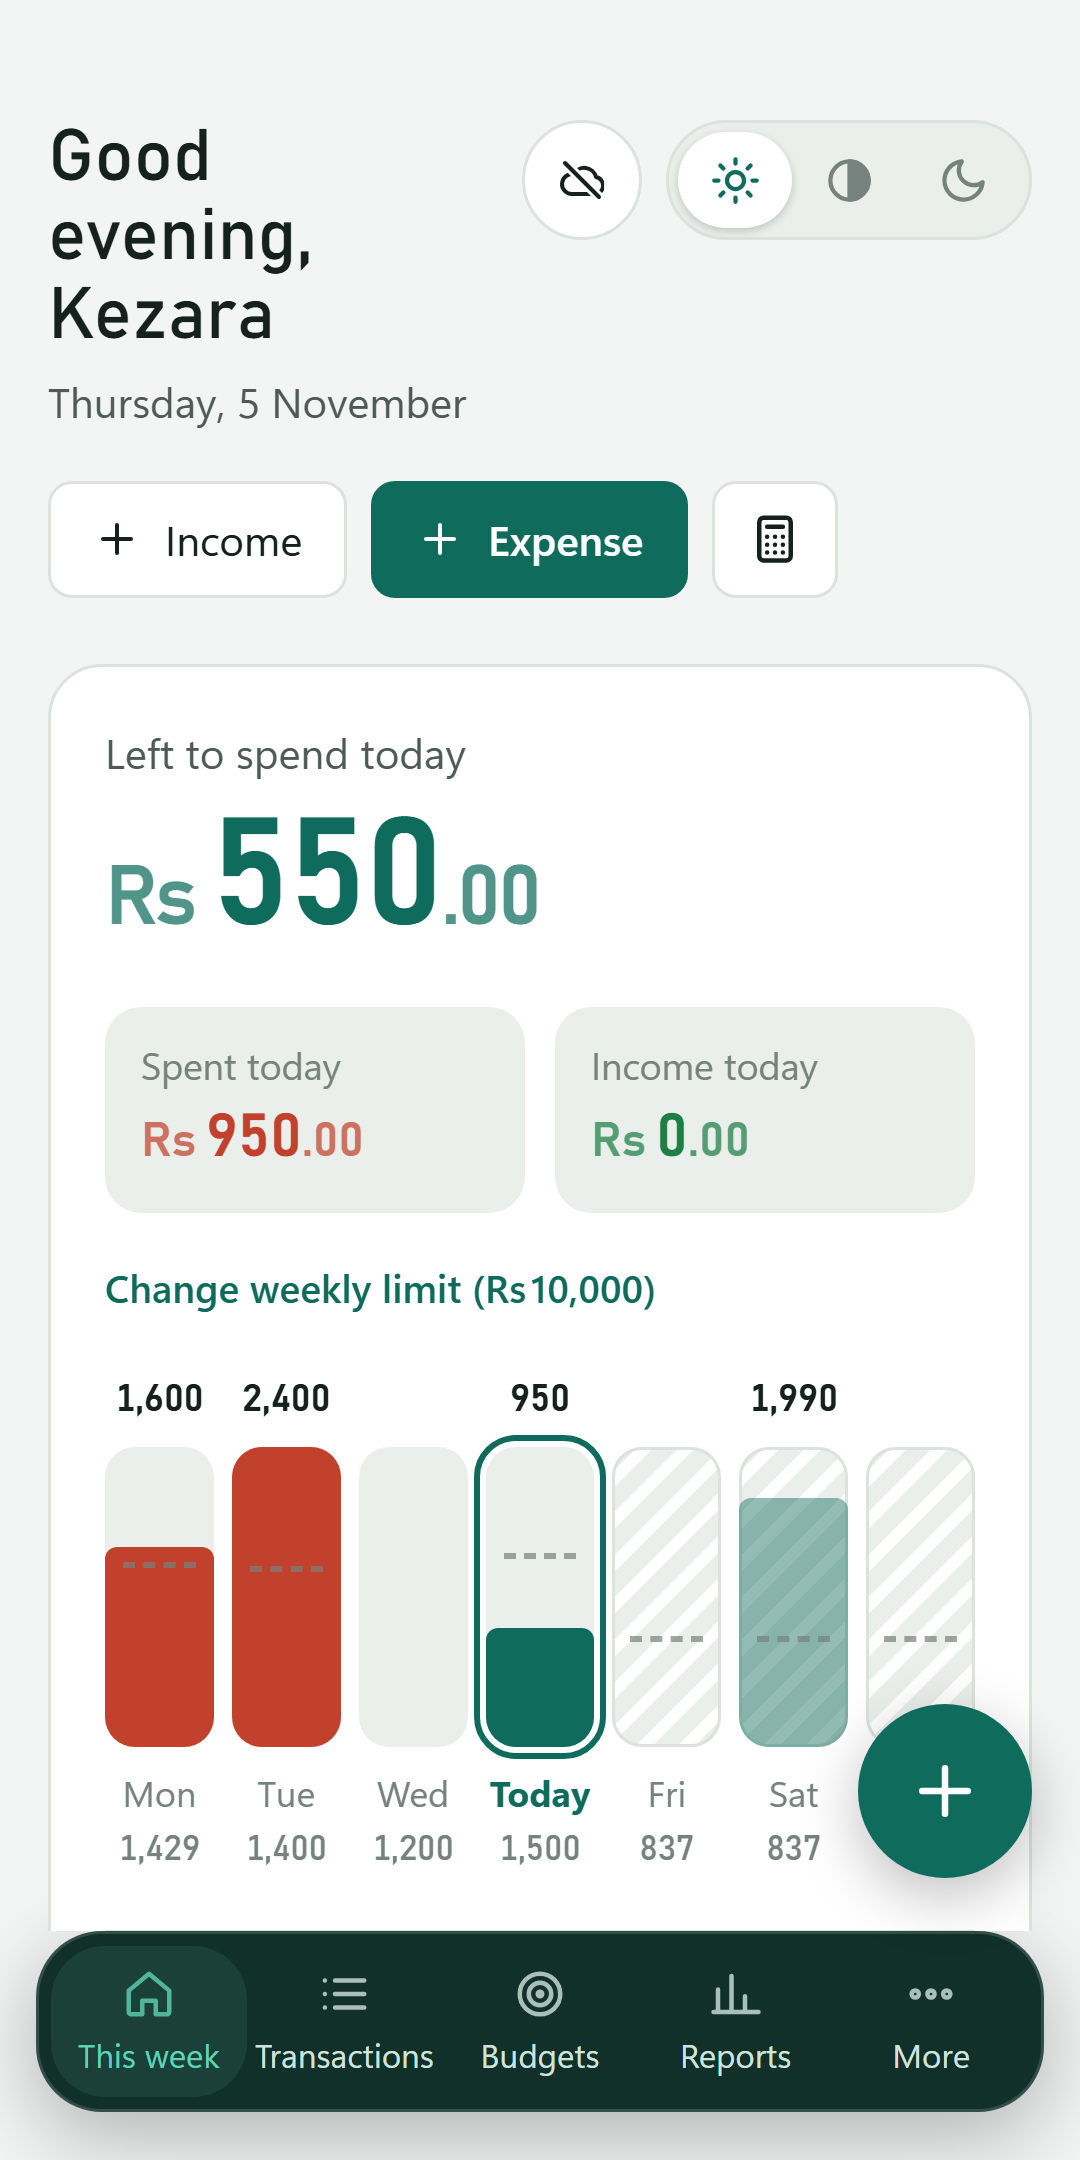
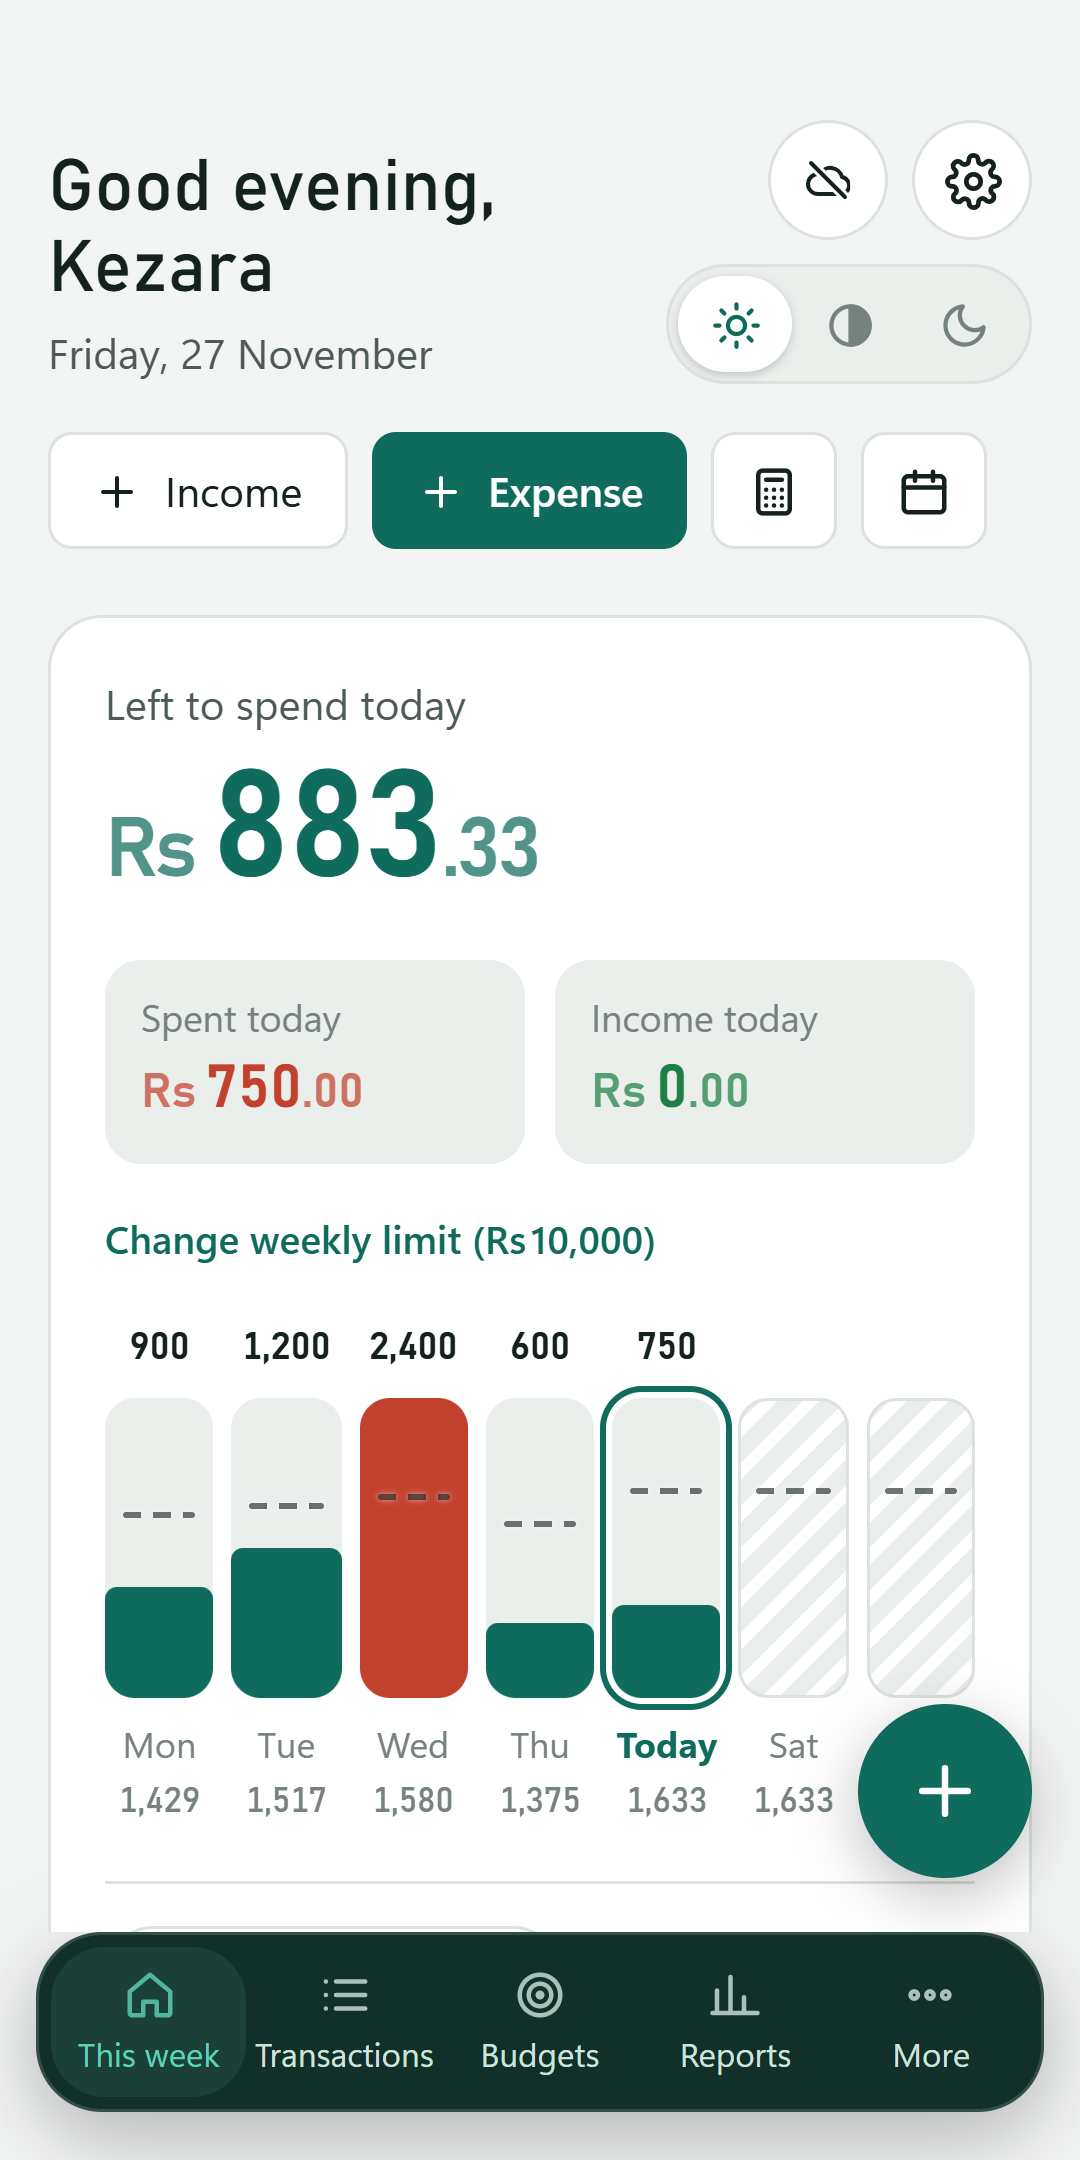
1.9.8: steady add form, deep blue card, new store screenshots and screenshot script, shorter Feedback section

diff --git a/web/styles.css b/web/styles.css
@@ -1224,7 +1224,8 @@ input.switch:disabled { opacity: .5; cursor: default; }
 .round-btn svg { width: 20px; height: 20px; }
 
 /* The dark card: Home "You can spend today", Spending "You spent" */
-.hero { display: grid; gap: 4px; padding: 22px 22px 18px; border-radius: 28px; background: linear-gradient(135deg, #34347a 0%, #6a4aa0 52%, #c0607e 100%); color: #ffffff; box-shadow: 0 14px 30px rgba(74, 52, 140, .28); }
+/* Home: deep blue. Spending (.page > .hero, below): teal to violet */
+.hero { display: grid; gap: 4px; padding: 22px 22px 18px; border-radius: 28px; background: linear-gradient(135deg, #12245e 0%, #1f3f9a 55%, #3f62d4 100%); color: #ffffff; box-shadow: 0 14px 30px rgba(31, 63, 154, .3); }
 .page > .hero { background: linear-gradient(135deg, #1d5d73 0%, #3d4b9a 55%, #7a4a9e 100%); box-shadow: 0 14px 30px rgba(45, 75, 140, .26); } /* Spending: its own colours */
 .hero-k { font-size: 15px; font-weight: 600; color: rgba(255, 255, 255, .78); }
 .hero-v { font-family: var(--num); font-size: 50px; font-weight: 600; line-height: 1.05; letter-spacing: -.01em; --minor: .5em; }
@@ -1261,17 +1262,19 @@ input.switch:disabled { opacity: .5; cursor: default; }
   text-align: center; font-family: var(--num); font-size: 40px; font-weight: 600; height: auto; padding: 6px 44px;
   border: 0; border-bottom: 2px solid var(--line); border-radius: 0; background: transparent; box-shadow: none;
 }
+/* The add form keeps the same height when switching Expense / Income / Transfer, so it doesn't jump up and down */
+[data-style="aesthetic"] .modal:has(#typeSeg) { min-height: min(760px, calc(100vh - 40px)); }
 [data-style="aesthetic"] #fCats { display: grid; grid-template-columns: repeat(4, minmax(0, 1fr)); gap: 14px 6px; }
 [data-style="aesthetic"] #fCats .chip {
   flex-direction: column; justify-content: flex-start; gap: 6px; padding: 0; border: 0; border-radius: 0; background: none;
-  font-size: 12px; line-height: 1.2; text-align: center; white-space: normal;
+  font-size: 12px; line-height: 1.2; text-align: center; white-space: normal; min-height: 89px; /* icon + two lines, so rows never change height */
 }
 [data-style="aesthetic"] #fCats .chip .dot {
   width: 54px; height: 54px; flex: none; border-radius: 50%; display: grid; place-items: center;
   background: color-mix(in srgb, var(--c) 16%, var(--surface)) !important; color: var(--c); box-shadow: inset 0 0 0 3px transparent;
 }
 [data-style="aesthetic"] #fCats .chip .dot .cat-ic { display: block; width: 22px; height: 22px; }
-[data-style="aesthetic"] #fCats .chip.on { background: none; font-weight: 700; }
+[data-style="aesthetic"] #fCats .chip.on { background: none; color: var(--ink); } /* not bold: a wider name could take a new line and make the form jump */
 [data-style="aesthetic"] #fCats .chip.on .dot { box-shadow: inset 0 0 0 3px var(--ink); }
 
 /* Spending: period pills and the "You kept" card */
@@ -1387,7 +1390,7 @@ input.switch:disabled { opacity: .5; cursor: default; }
   [data-style="aesthetic"] .nav button { color: var(--muted); border-radius: 999px; }
   [data-style="aesthetic"] .nav button.on { background: none; color: var(--ink); }
   [data-style="aesthetic"] .nav button.on span { display: none; } /* the dark circle says "you are here" */
-  [data-style="aesthetic"] .nav button.on svg { width: 22px; height: 22px; padding: 13px; margin: -6px 0; box-sizing: content-box; border-radius: 50%; background: linear-gradient(135deg, #34347a 0%, #6a4aa0 52%, #c0607e 100%); color: #ffffff; }
+  [data-style="aesthetic"] .nav button.on svg { width: 22px; height: 22px; padding: 13px; margin: -6px 0; box-sizing: content-box; border-radius: 50%; background: linear-gradient(135deg, #12245e 0%, #1f3f9a 55%, #3f62d4 100%); color: #ffffff; }
   [data-style="aesthetic"] .nav-add {
     display: grid; place-items: center; flex: 0 0 52px; width: 52px; height: 52px; align-self: center; margin: 0 2px;
     border: 0; border-radius: 50%; background: var(--accent-soft); color: var(--ink); cursor: pointer;
@@ -1410,6 +1413,7 @@ input.switch:disabled { opacity: .5; cursor: default; }
   [data-style="aesthetic"] .fab-item.calc .fab-ic { --q: #c98a14; }
   [data-style="aesthetic"] .fab-label { color: var(--ink); text-shadow: none; font-weight: 700; }
   [data-style="aesthetic"] .wdot-c { width: 38px; height: 38px; }
+  [data-style="aesthetic"] .modal:has(#typeSeg) { height: 92vh; min-height: 0; } /* the add form always as tall as a sheet can be: its top never moves */
 }
 
 /* Reports in the Aesthetic look: spending by category as a colourful ring, the total in the middle */

diff --git a/web/app.js b/web/app.js
@@ -3,7 +3,7 @@
 'use strict';
 
 /* ================= constants ================= */
-const APP_VERSION = '1.9.7';
+const APP_VERSION = '1.9.8';
 const AUTHOR = 'D. Kezara';
 const PALETTE = ['#2a78d6', '#eb6834', '#1baf7a', '#eda100', '#e87ba4', '#008300', '#4a3aa7', '#e34948', '#5f6b66', '#0f6b5c'];
 const CURRENCIES = [
@@ -1897,7 +1897,7 @@ function viewSettings() {
         ${action('fbIdea', 'mail', 'Send an idea or feedback')}
         ${action('fbProblem', 'alert', 'Report a problem')}
         ${isNativeApp() ? action('rateApp', 'star', 'Rate on Google Play') : ''}
-      </div><p class="hint set-foot">Every message is read by the developer. Ideas often become new features.</p></section>
+      </div></section>
       <section class="set-group"><h2 class="set-title">Expense categories <button class="btn small" data-cat-add="expense">${icon('plus')}Add</button></h2><div class="set-card set-list">${catList('expense')}</div></section>
       <section class="set-group"><h2 class="set-title">Income categories <button class="btn small" data-cat-add="income">${icon('plus')}Add</button></h2><div class="set-card set-list">${catList('income')}</div></section>
     </div>

diff --git a/store/listing.md b/store/listing.md
@@ -16,6 +16,8 @@ Set a weekly spending limit and Pocket Ledger shares it across the days that are
 
 WHAT YOU CAN DO
 • See what you can spend today at a glance, with today's income and expenses and a day-by-day bar chart of your week
+• Calendar: see every day's spending, your bills, payday and goal dates at a glance, how many days to payday and how much you can spend each day until then, and a warning before money runs short
+• Add your own reminders (school fees, insurance renewal) with an optional amount, and get a notification on the day
 • Add income and expenses in seconds, with categories, notes and accounts (cash, bank and more)
 • Set monthly or weekly budgets for each category and see which ones are on track
 • Save towards goals like an emergency fund, a new laptop or a trip, with a weekly target to reach them in time
@@ -23,7 +25,9 @@ WHAT YOU CAN DO
 • See reports: income vs. expenses by month, spending by category, your biggest expenses and your savings rate
 • Search and filter every transaction by date, type, category or account
 • Built-in calculator: type sums like 1200+350 in any amount, or work out discounts, bill splits, loan payments and how much to save each week
-• Choose your currency (LKR, USD, EUR, GBP, INR, AUD and many more), your first day of the week, light or dark mode, and a colour theme: Forest, Onyx, Navy or Mocha
+• Two styles: Professional, simple and clear, or Aesthetic, a soft, colourful planner look with handwritten titles and an easy circle chart of your spending
+• Choose your currency (LKR, USD, EUR, GBP, INR, AUD and many more), your first day of the week, light or dark mode, and a colour theme: Forest, Onyx, Navy, Mocha or Pearl
+• Send ideas or report a problem right from Settings
 • Optional sync: create a free account to use the same data on your phone and computer, updated live
 
 PRIVATE BY DEFAULT
@@ -45,14 +49,15 @@ Pocket Ledger is free, with no ads and no in-app purchases.
 
 Designed and developed by D. Kezara.
 ## Screenshots (phone, upload in this order)
+Made by `node tools/store-screenshots.mjs` (sample data, 1080 x 2160).
 1. screenshots/1-this-week.png
-2. screenshots/2-transactions.png
-3. screenshots/3-budgets.png
-4. screenshots/4-reports.png
-5. screenshots/5-spending-by-category.png
+2. screenshots/2-calendar.png
+3. screenshots/3-aesthetic-home.png
+4. screenshots/4-spending-chart.png
+5. screenshots/5-add-expense.png
 6. screenshots/6-savings-goals.png
 7. screenshots/7-dark-mode.png
-8. screenshots/8-settings.png
+8. screenshots/8-transactions.png
 
 ## Graphics
 - App icon (512 x 512): icon-512.png
@@ -63,7 +68,7 @@ Designed and developed by D. Kezara.
 - Web version: https://d-keshara.github.io/pocket-ledger/
 - Delete account (Play Console > App content > Data safety > "Delete account URL"): https://d-keshara.github.io/pocket-ledger/account.html?mode=deleteAccount
 
-## What's new in 1.9.7 (release notes, max 500; 1.9.6 never went to Play, so these cover both)
+## What's new in 1.9.8 (release notes, max 500; 1.9.6 and 1.9.7 never went to Play, so these cover all three)
 New: Calendar page with your bills, payday countdown, goal dates and your own reminders, with a warning if money may run short.
 New: Aesthetic style, a soft, colourful planner look with a spending circle chart. Choose it in Settings → Style.
 New: send an idea or report a problem from Settings → Feedback.
